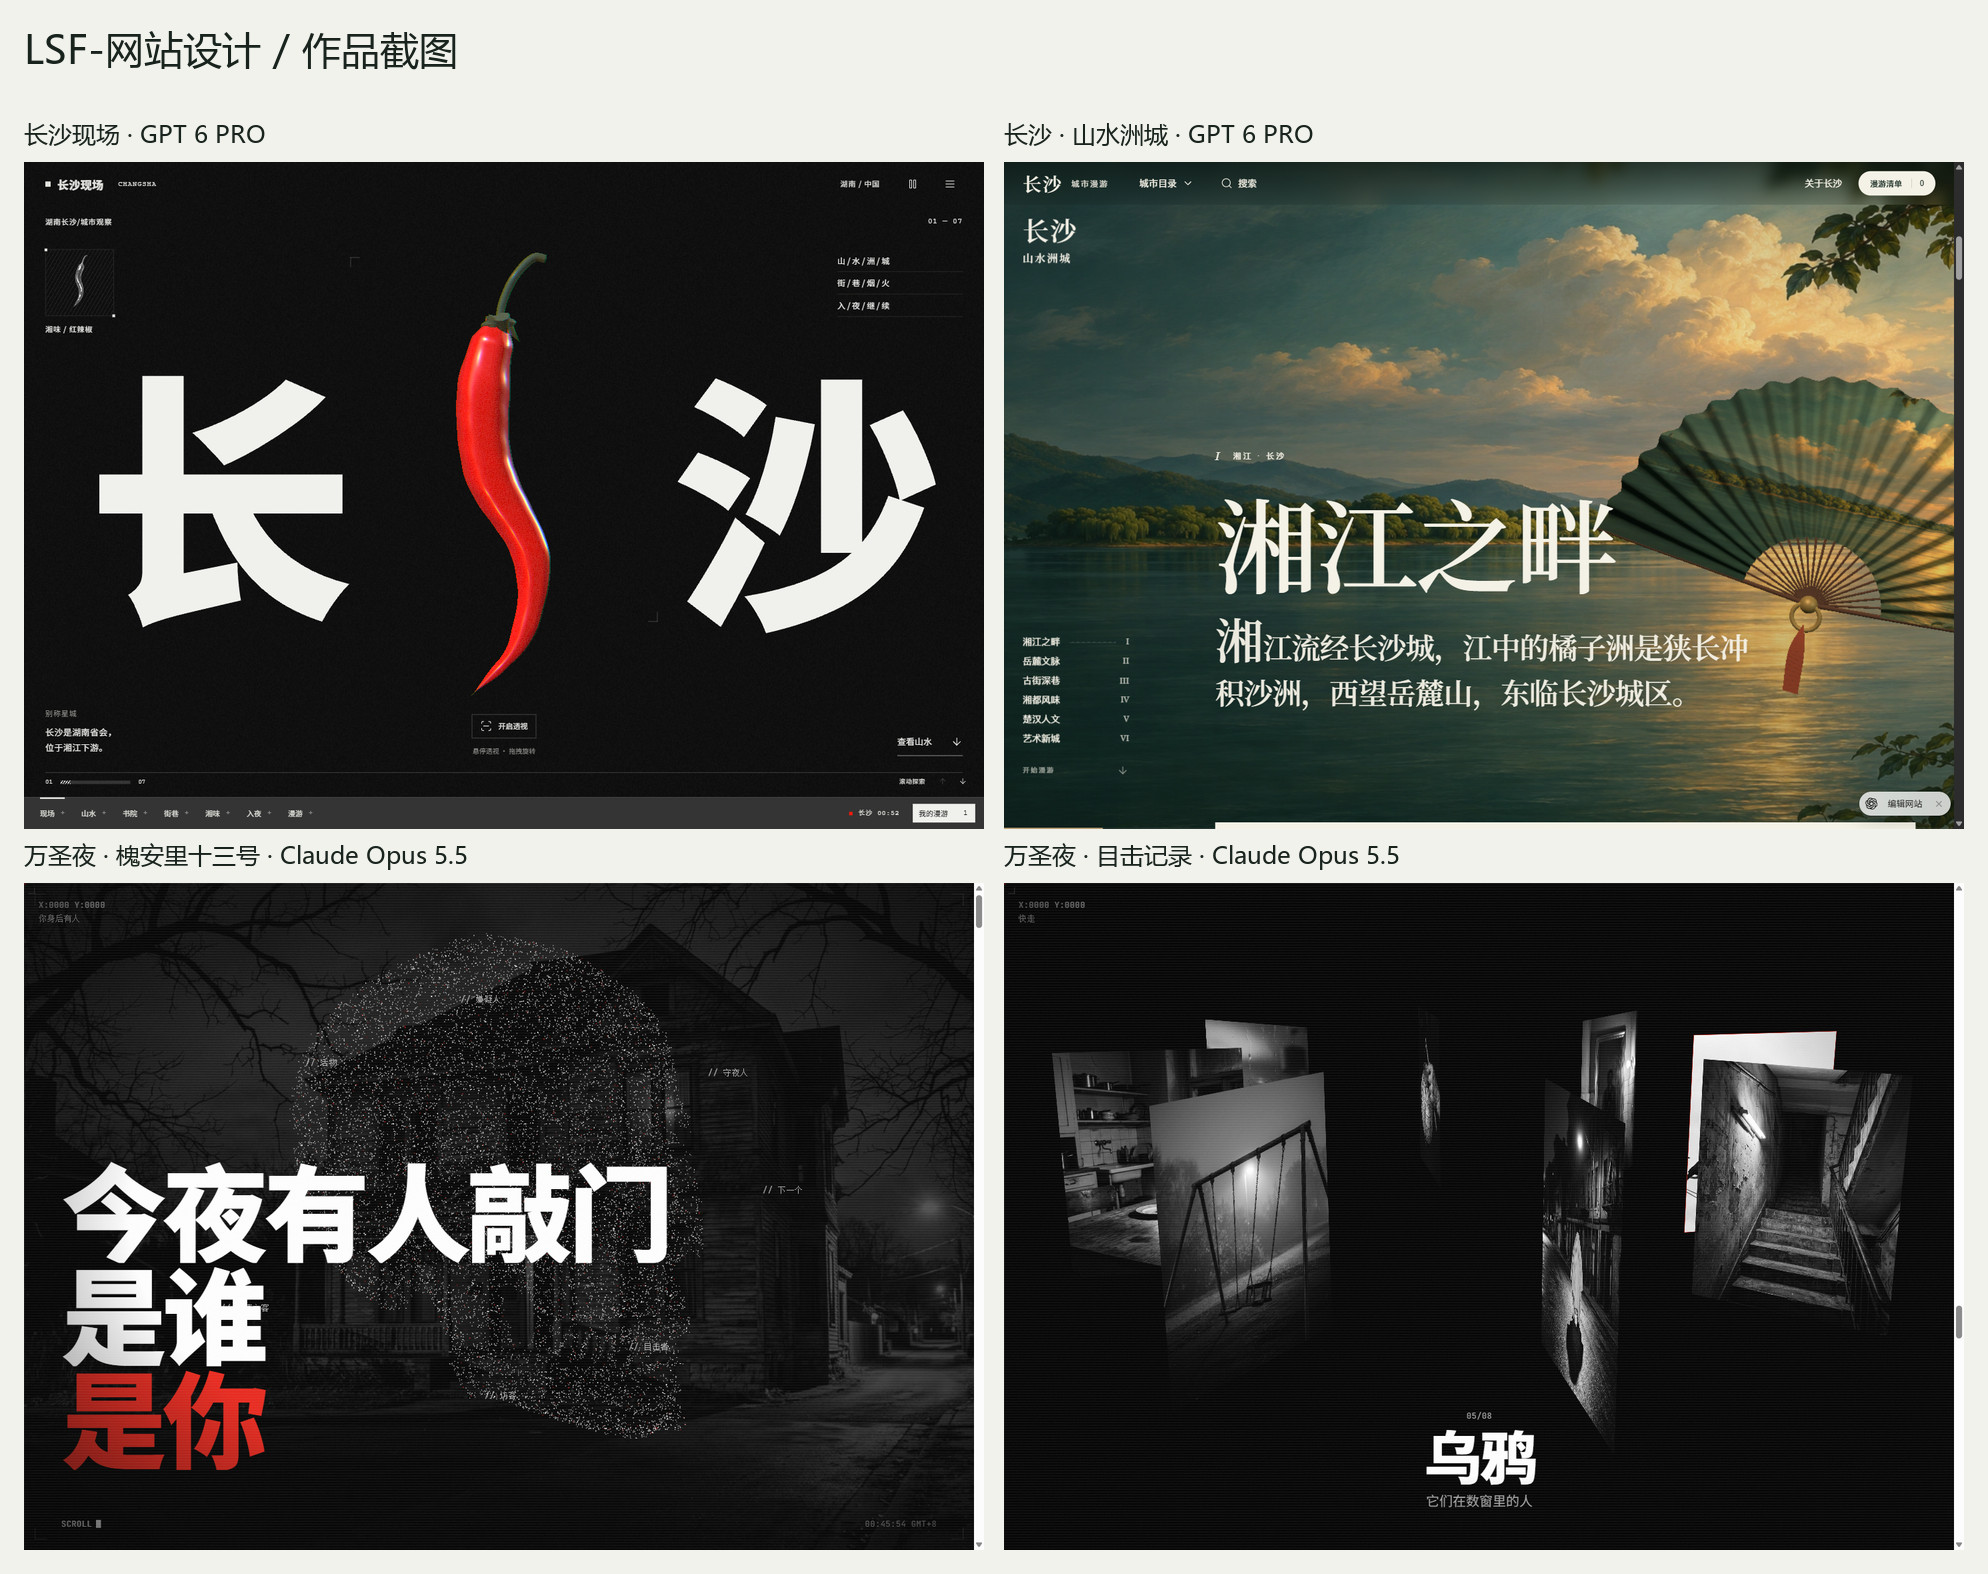
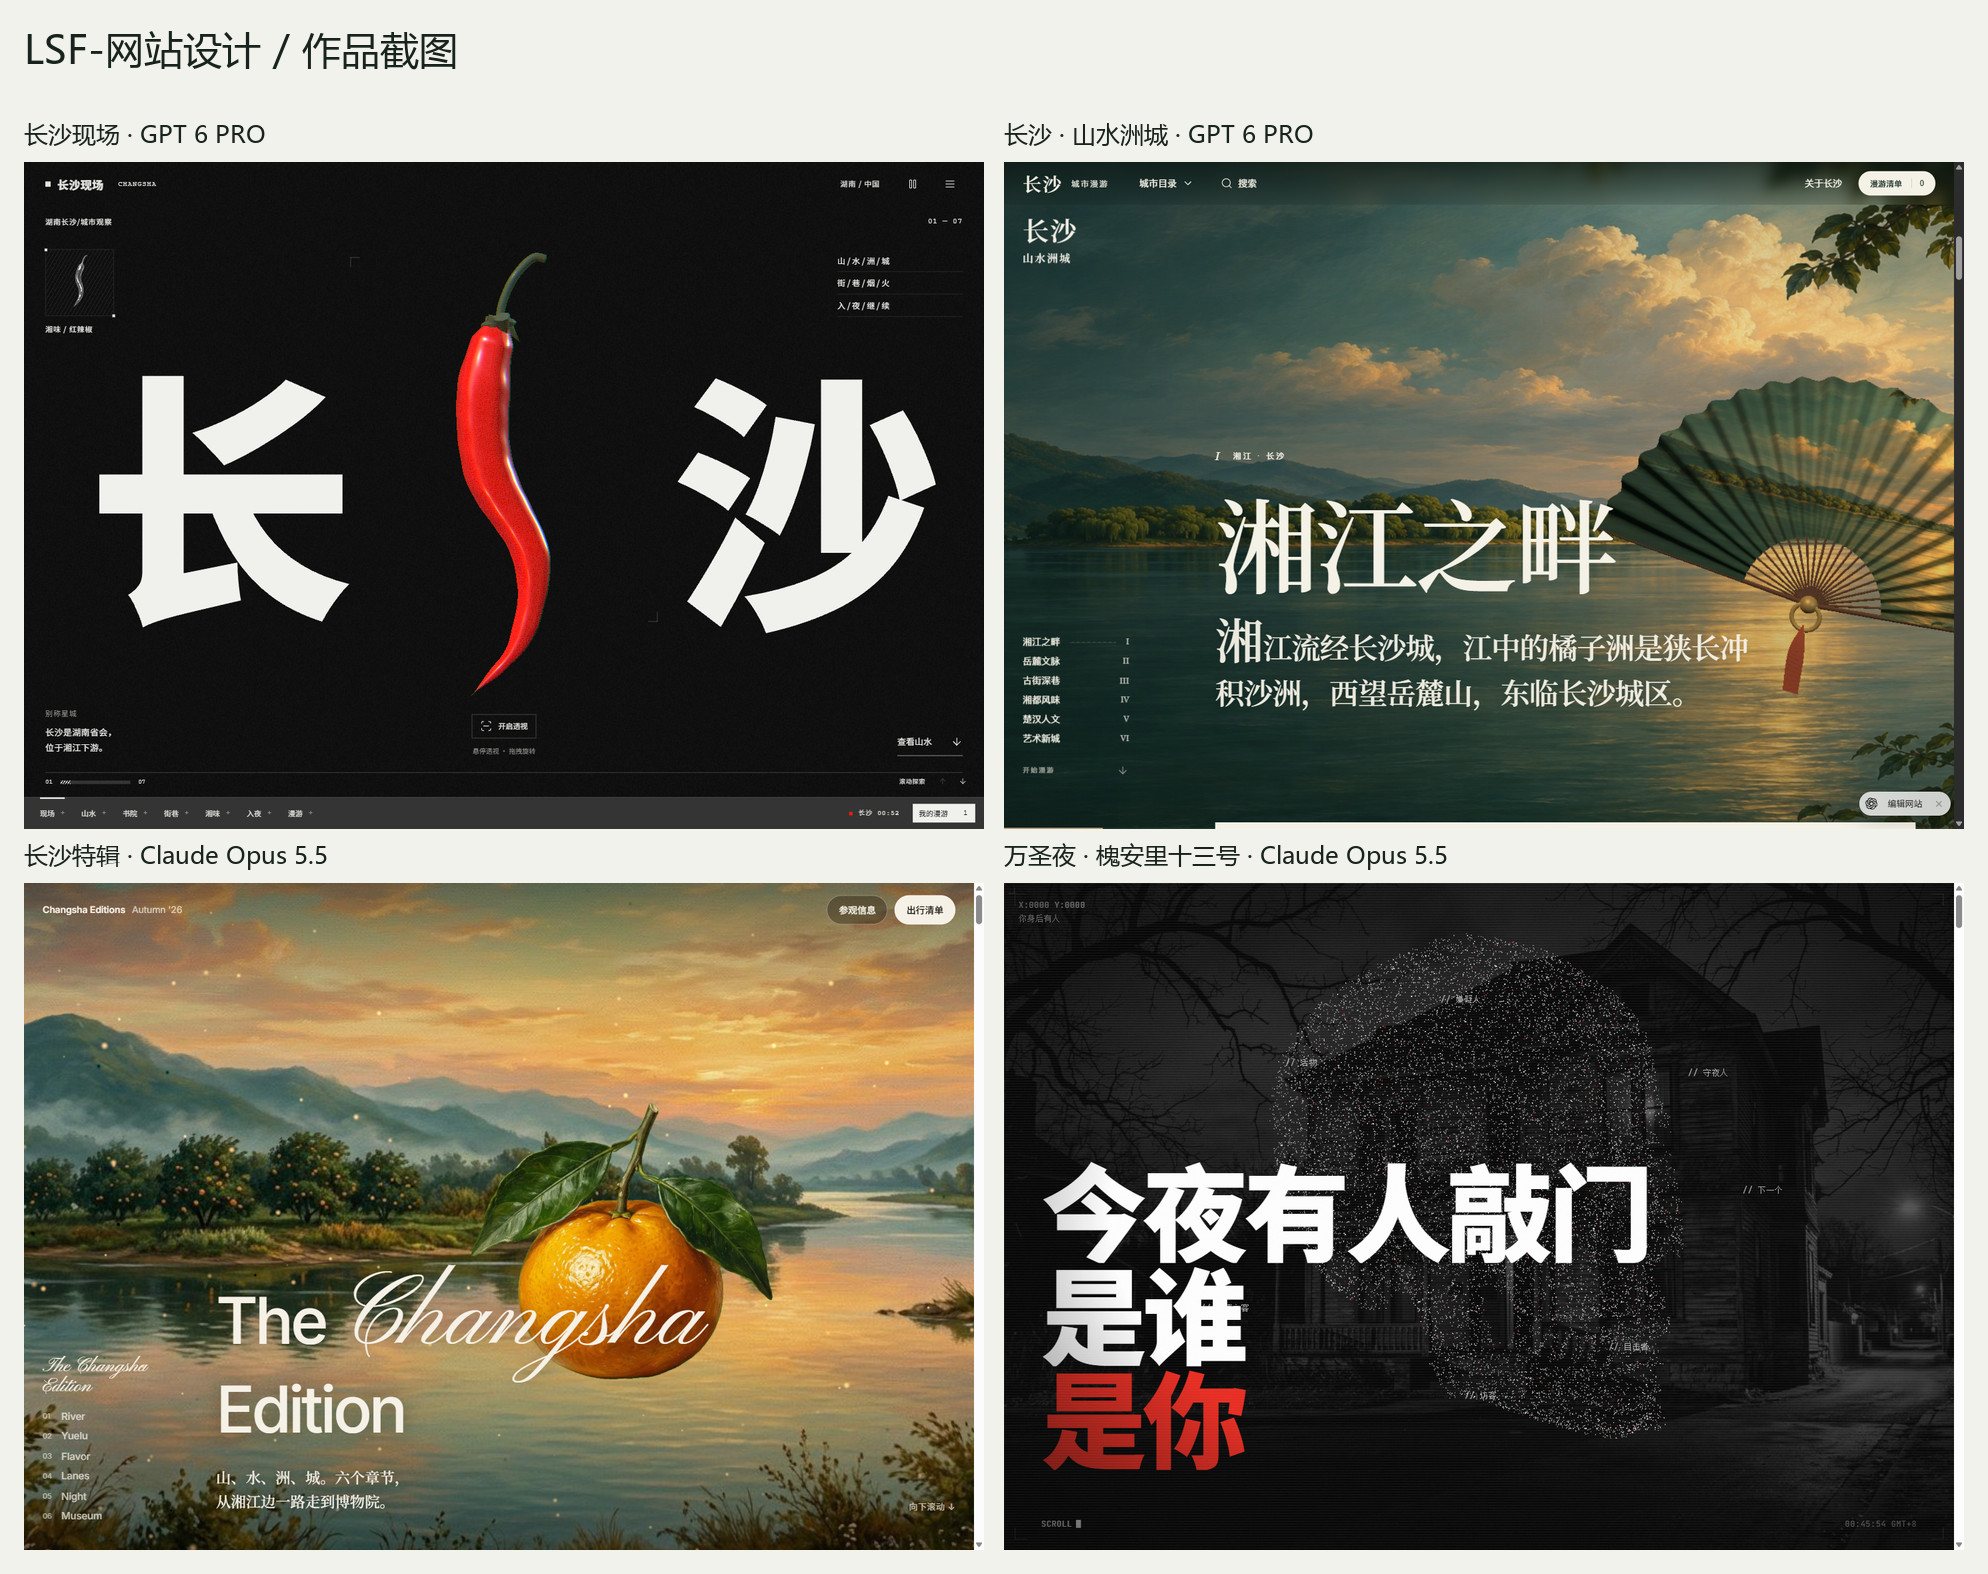
docs: add Claude Opus 5.5 Changsha Edition showcase

diff --git a/examples/作品展示.md b/examples/作品展示.md
@@ -1,6 +1,6 @@
 # 作品展示与截图来源
 
-本页收录作者提供的五个作品。所有图片均来自实际浏览器截图，按场景等比缩放、拼接，没有重绘或修改页面内容。长图是精选场景拼接，不是连续的全页截图。滚动动画、拖拽、粒子和三维交互需要打开原作品体验。
+本页收录作者提供的六个作品。所有图片均来自实际浏览器截图，按场景等比缩放、拼接，没有重绘或修改页面内容。长图是精选场景拼接，不是连续的全页截图。滚动动画、拖拽、粒子和三维交互需要打开原作品体验。
 
 截图日期：2026-11-04（Asia/Shanghai）。浏览器：Ego Lite；单屏视口：1440 × 1000。逐屏文件的摘要及来源记录见[manifest.json](screenshots/manifest.json)。截图所对应的制作版本与当前 skill v34 不一定相同，不将历史作品追认为 v34 的受控实验。
 
@@ -44,3 +44,11 @@
 分享外壳页本次停留在加载画面，改从该页实际嵌入的[作品地址](https://hark.site/s/6ea9e899-ceba-4306-966c-0622f3f47ee8/index.html?hark_region=us&via=app)打开，等待加载完成后截图。选取开场、档案、图像轮播和图像球体四个场景。
 
 ![Hark 万圣夜场景长图](screenshots/hark-halloween.jpg)
+
+## 长沙特辑 · The Changsha Edition
+
+[Hark 分享页](https://hark.com/site/77af0857-a085-4f73-9456-4db0641e3a45?hark_region=us) · 模型：Claude Opus 5.5
+
+页面标题为「长沙特辑 · The Changsha Edition · Autumn '26」。从分享页实际嵌入的[作品地址](https://hark.site/s/77af0857-a085-4f73-9456-4db0641e3a45/index.html?hark_region=us&via=app)打开，选取开场、湘江与橘子洲、岳麓、小吃四个场景截图并拼接。
+
+![Claude Opus 5.5 制作的长沙特辑场景长图](screenshots/hark-changsha-edition.jpg)

diff --git a/README.md b/README.md
@@ -29,6 +29,7 @@
 | 长沙现场 | [打开作品](https://changsha-city-fieldnotes.leir0491.chatgpt.site/#intro) | GPT 6 PRO | [现场 / 山水 / 湘味 / 入夜](examples/screenshots/changsha-fieldnotes.jpg) |
 | 长沙 · 山水洲城 | [打开作品](https://changsha-city-edition-v34.leir0491.chatgpt.site/#xiangjiang) | GPT 6 PRO | [开场 / 湘江 / 风味](examples/screenshots/changsha-edition.jpg) |
 | 万圣夜 · 槐安里十三号 | [打开 Hark 作品](https://hark.com/site/6ea9e899-ceba-4306-966c-0622f3f47ee8?hark_region=us) | Claude Opus 5.5 | [开场 / 档案 / 轮播 / 球体](examples/screenshots/hark-halloween.jpg) |
+| 长沙特辑 · The Changsha Edition | [打开 Hark 作品](https://hark.com/site/77af0857-a085-4f73-9456-4db0641e3a45?hark_region=us) | Claude Opus 5.5 | [开场 / 湘江 / 岳麓 / 小吃](examples/screenshots/hark-changsha-edition.jpg) |
 
 全部为实际页面截图，长图由多个场景拼接。截图时间：2026-11-04；单屏视口：1440 × 1000。模型信息以作者提供的记录为准，不根据托管平台推断。详细来源见[作品展示](examples/作品展示.md)和[截图记录](examples/screenshots/manifest.json)。
 
